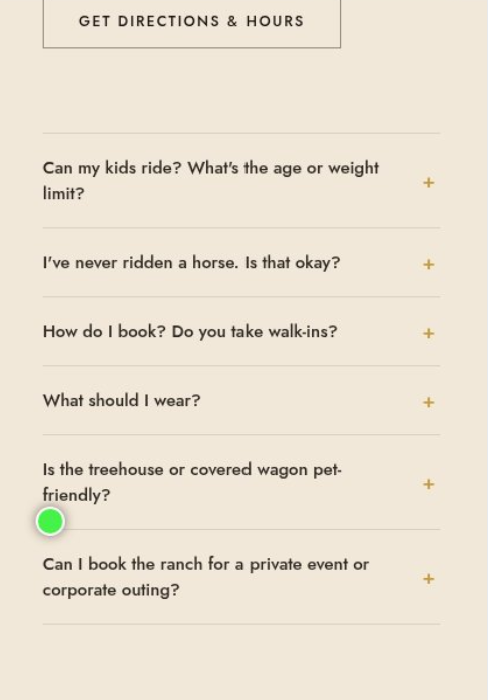
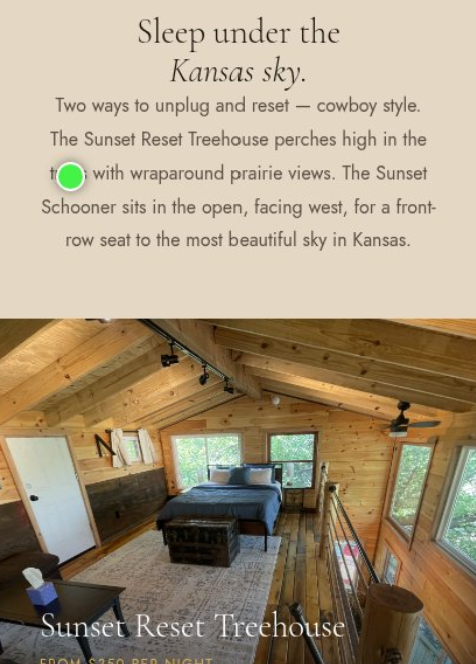
Update lodging section copy - Treehouse/Schooner descriptions

diff --git a/dist/index.html b/dist/index.html
@@ -273,7 +273,7 @@
     <div class="container">
       <span class="overline">Overnight Stays</span>
       <h2>Sleep under the<br><em>Kansas sky.</em></h2>
-      <p style="color:var(--gray-body);font-family:'Jost',sans-serif;font-size:1rem;max-width:560px;margin:0 auto;line-height:1.8;">Two ways to unplug and reset — cowboy style. The Sunset Reset Treehouse perches high in the trees with wraparound prairie views. The Sunset Schooner sits in the open, facing west, for a front-row seat to the most beautiful sky in Kansas.</p>
+      <p style="color:var(--gray-body);font-family:'Jost',sans-serif;font-size:1rem;max-width:560px;margin:0 auto;line-height:1.8;">Two unforgettable ways to unplug, slow down, and reset &mdash; cowboy style. The Sunset Reset Treehouse is nestled among the trees, with a wraparound deck overlooking the woods &amp; the pond to the east and wide-open pasture sunsets to the west. The Sunset Schooner is tucked beneath the trees, with a west-facing deck and a front-row seat to unforgettable Kansas sunsets.</p>
     </div>
   </div>
   <div class="v2-lodge-cards">

diff --git a/dist/v2/index.html b/dist/v2/index.html
@@ -255,7 +255,7 @@
     <div class="container">
       <span class="overline">Overnight Stays</span>
       <h2>Sleep under the<br><em>Kansas sky.</em></h2>
-      <p style="color:var(--gray-body);font-family:'Jost',sans-serif;font-size:1rem;max-width:560px;margin:0 auto;line-height:1.8;">Two ways to unplug and reset — cowboy style. The Sunset Reset Treehouse perches high in the trees with wraparound prairie views. The Sunset Schooner sits in the open, facing west, for a front-row seat to the most beautiful sky in Kansas.</p>
+      <p style="color:var(--gray-body);font-family:'Jost',sans-serif;font-size:1rem;max-width:560px;margin:0 auto;line-height:1.8;">Two unforgettable ways to unplug, slow down, and reset &mdash; cowboy style. The Sunset Reset Treehouse is nestled among the trees, with a wraparound deck overlooking the woods &amp; the pond to the east and wide-open pasture sunsets to the west. The Sunset Schooner is tucked beneath the trees, with a west-facing deck and a front-row seat to unforgettable Kansas sunsets.</p>
     </div>
   </div>
   <div class="v2-lodge-cards">

diff --git a/index.html b/index.html
@@ -273,7 +273,7 @@
     <div class="container">
       <span class="overline">Overnight Stays</span>
       <h2>Sleep under the<br><em>Kansas sky.</em></h2>
-      <p style="color:var(--gray-body);font-family:'Jost',sans-serif;font-size:1rem;max-width:560px;margin:0 auto;line-height:1.8;">Two ways to unplug and reset — cowboy style. The Sunset Reset Treehouse perches high in the trees with wraparound prairie views. The Sunset Schooner sits in the open, facing west, for a front-row seat to the most beautiful sky in Kansas.</p>
+      <p style="color:var(--gray-body);font-family:'Jost',sans-serif;font-size:1rem;max-width:560px;margin:0 auto;line-height:1.8;">Two unforgettable ways to unplug, slow down, and reset &mdash; cowboy style. The Sunset Reset Treehouse is nestled among the trees, with a wraparound deck overlooking the woods &amp; the pond to the east and wide-open pasture sunsets to the west. The Sunset Schooner is tucked beneath the trees, with a west-facing deck and a front-row seat to unforgettable Kansas sunsets.</p>
     </div>
   </div>
   <div class="v2-lodge-cards">

diff --git a/v2/index.html b/v2/index.html
@@ -255,7 +255,7 @@
     <div class="container">
       <span class="overline">Overnight Stays</span>
       <h2>Sleep under the<br><em>Kansas sky.</em></h2>
-      <p style="color:var(--gray-body);font-family:'Jost',sans-serif;font-size:1rem;max-width:560px;margin:0 auto;line-height:1.8;">Two ways to unplug and reset — cowboy style. The Sunset Reset Treehouse perches high in the trees with wraparound prairie views. The Sunset Schooner sits in the open, facing west, for a front-row seat to the most beautiful sky in Kansas.</p>
+      <p style="color:var(--gray-body);font-family:'Jost',sans-serif;font-size:1rem;max-width:560px;margin:0 auto;line-height:1.8;">Two unforgettable ways to unplug, slow down, and reset &mdash; cowboy style. The Sunset Reset Treehouse is nestled among the trees, with a wraparound deck overlooking the woods &amp; the pond to the east and wide-open pasture sunsets to the west. The Sunset Schooner is tucked beneath the trees, with a west-facing deck and a front-row seat to unforgettable Kansas sunsets.</p>
     </div>
   </div>
   <div class="v2-lodge-cards">

diff --git a/dist/about/index.html b/dist/about/index.html
@@ -22,7 +22,7 @@
 <link rel="preconnect" href="https://fonts.gstatic.com" crossorigin>
 <link href="https://fonts.googleapis.com/css2?family=Cormorant+Garamond:ital,wght@0,300;0,400;0,600;1,300;1,400&family=Jost:wght@300;400;500;600&display=swap" rel="stylesheet">
 <link href="https://fonts.cdnfonts.com/css/norwester" rel="stylesheet">
-<link rel="stylesheet" href="/v2.css?v=mta7470b">
+<link rel="stylesheet" href="/v2.css?v=mta7c0qd">
 <style>
   /* Subpage interior overrides */
   body { background: var(--cream); }

diff --git a/dist/andover-ks/index.html b/dist/andover-ks/index.html
@@ -22,7 +22,7 @@
 <link rel="preconnect" href="https://fonts.gstatic.com" crossorigin>
 <link href="https://fonts.googleapis.com/css2?family=Cormorant+Garamond:ital,wght@0,300;0,400;0,600;1,300;1,400&family=Jost:wght@300;400;500;600&display=swap" rel="stylesheet">
 <link href="https://fonts.cdnfonts.com/css/norwester" rel="stylesheet">
-<link rel="stylesheet" href="/v2.css?v=mta7470b">
+<link rel="stylesheet" href="/v2.css?v=mta7c0qd">
 <style>
   /* Subpage interior overrides */
   body { background: var(--cream); }

diff --git a/dist/contact/index.html b/dist/contact/index.html
@@ -22,7 +22,7 @@
 <link rel="preconnect" href="https://fonts.gstatic.com" crossorigin>
 <link href="https://fonts.googleapis.com/css2?family=Cormorant+Garamond:ital,wght@0,300;0,400;0,600;1,300;1,400&family=Jost:wght@300;400;500;600&display=swap" rel="stylesheet">
 <link href="https://fonts.cdnfonts.com/css/norwester" rel="stylesheet">
-<link rel="stylesheet" href="/v2.css?v=mta7470b">
+<link rel="stylesheet" href="/v2.css?v=mta7c0qd">
 <style>
   /* Subpage interior overrides */
   body { background: var(--cream); }

diff --git a/dist/covered-wagon-stay/index.html b/dist/covered-wagon-stay/index.html
@@ -22,7 +22,7 @@
 <link rel="preconnect" href="https://fonts.gstatic.com" crossorigin>
 <link href="https://fonts.googleapis.com/css2?family=Cormorant+Garamond:ital,wght@0,300;0,400;0,600;1,300;1,400&family=Jost:wght@300;400;500;600&display=swap" rel="stylesheet">
 <link href="https://fonts.cdnfonts.com/css/norwester" rel="stylesheet">
-<link rel="stylesheet" href="/v2.css?v=mta7470b">
+<link rel="stylesheet" href="/v2.css?v=mta7c0qd">
 <style>
   /* Subpage interior overrides */
   body { background: var(--cream); }

diff --git a/dist/derby-ks/index.html b/dist/derby-ks/index.html
@@ -22,7 +22,7 @@
 <link rel="preconnect" href="https://fonts.gstatic.com" crossorigin>
 <link href="https://fonts.googleapis.com/css2?family=Cormorant+Garamond:ital,wght@0,300;0,400;0,600;1,300;1,400&family=Jost:wght@300;400;500;600&display=swap" rel="stylesheet">
 <link href="https://fonts.cdnfonts.com/css/norwester" rel="stylesheet">
-<link rel="stylesheet" href="/v2.css?v=mta7470b">
+<link rel="stylesheet" href="/v2.css?v=mta7c0qd">
 <style>
   /* Subpage interior overrides */
   body { background: var(--cream); }

diff --git a/dist/dinner-date-experience/index.html b/dist/dinner-date-experience/index.html
@@ -22,7 +22,7 @@
 <link rel="preconnect" href="https://fonts.gstatic.com" crossorigin>
 <link href="https://fonts.googleapis.com/css2?family=Cormorant+Garamond:ital,wght@0,300;0,400;0,600;1,300;1,400&family=Jost:wght@300;400;500;600&display=swap" rel="stylesheet">
 <link href="https://fonts.cdnfonts.com/css/norwester" rel="stylesheet">
-<link rel="stylesheet" href="/v2.css?v=mta7470b">
+<link rel="stylesheet" href="/v2.css?v=mta7c0qd">
 <style>
   /* Subpage interior overrides */
   body { background: var(--cream); }

diff --git a/dist/guided-horseback-rides/index.html b/dist/guided-horseback-rides/index.html
@@ -22,7 +22,7 @@
 <link rel="preconnect" href="https://fonts.gstatic.com" crossorigin>
 <link href="https://fonts.googleapis.com/css2?family=Cormorant+Garamond:ital,wght@0,300;0,400;0,600;1,300;1,400&family=Jost:wght@300;400;500;600&display=swap" rel="stylesheet">
 <link href="https://fonts.cdnfonts.com/css/norwester" rel="stylesheet">
-<link rel="stylesheet" href="/v2.css?v=mta7470b">
+<link rel="stylesheet" href="/v2.css?v=mta7c0qd">
 <style>
   /* Subpage interior overrides */
   body { background: var(--cream); }

diff --git a/dist/haysville-ks/index.html b/dist/haysville-ks/index.html
@@ -22,7 +22,7 @@
 <link rel="preconnect" href="https://fonts.gstatic.com" crossorigin>
 <link href="https://fonts.googleapis.com/css2?family=Cormorant+Garamond:ital,wght@0,300;0,400;0,600;1,300;1,400&family=Jost:wght@300;400;500;600&display=swap" rel="stylesheet">
 <link href="https://fonts.cdnfonts.com/css/norwester" rel="stylesheet">
-<link rel="stylesheet" href="/v2.css?v=mta7470b">
+<link rel="stylesheet" href="/v2.css?v=mta7c0qd">
 <style>
   /* Subpage interior overrides */
   body { background: var(--cream); }
